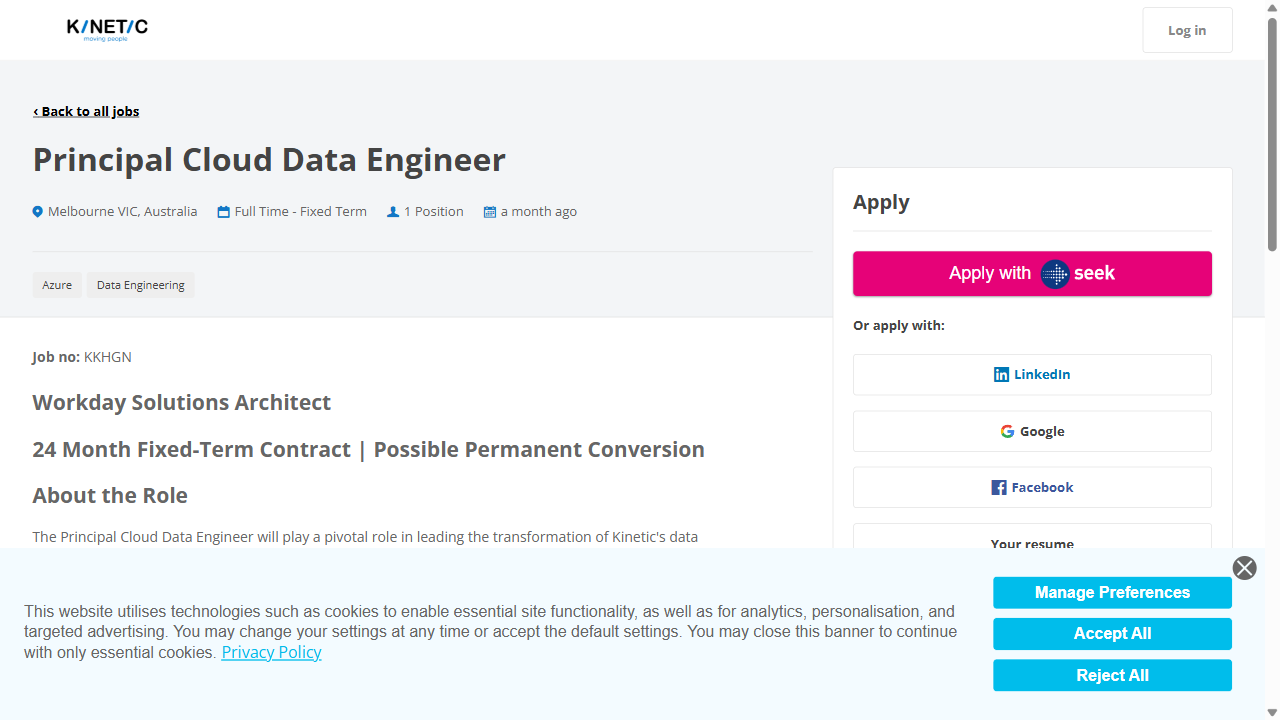
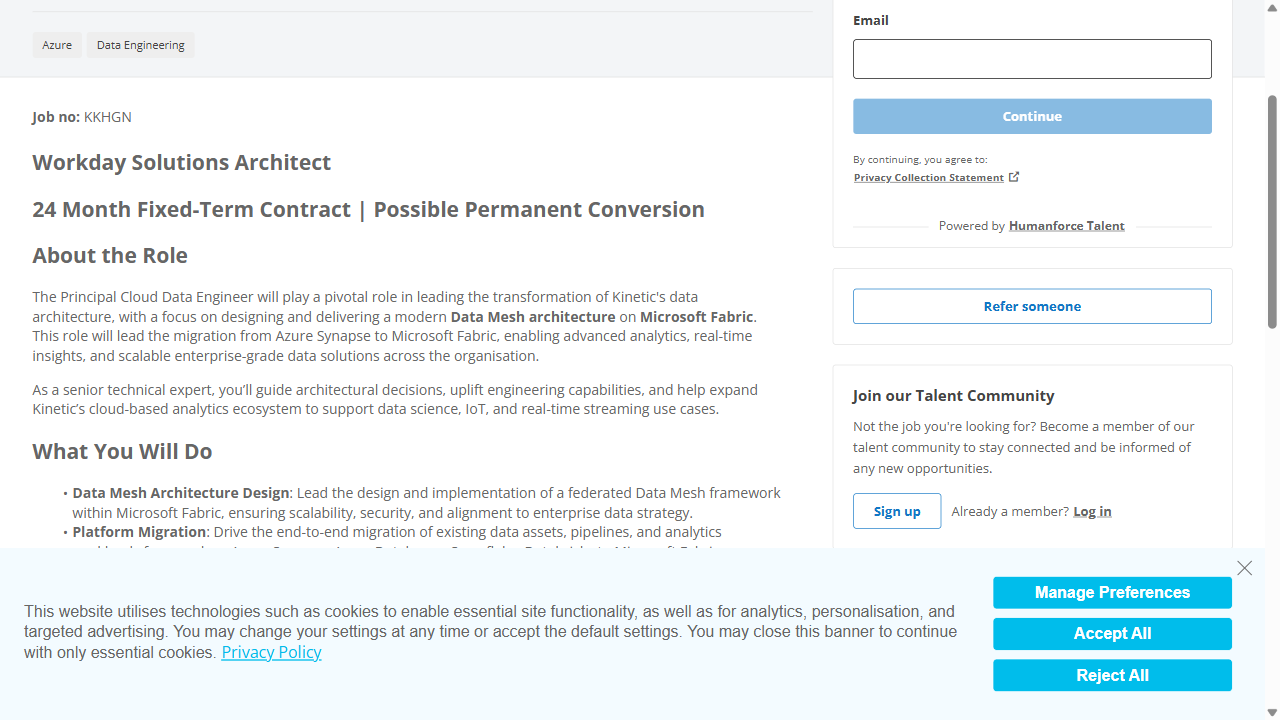
error resolving

diff --git a/backend/bots/handlers/livehire.py b/backend/bots/handlers/livehire.py
@@ -1,24 +1,38 @@
 from utils.claude_client import get_best_apply_button
 
 def apply_livehire(page, resume_path, user_info):
-    print("🧠 Using Claude to choose apply button...")
+    print("🧠 Trying to find a resume-related button first...")
 
     try:
         # Step 1: Wait for buttons to load
         page.wait_for_selector("button", timeout=10000)
         buttons = page.locator("button")
-        texts = [btn.text_content() for btn in buttons.element_handles()]
-        print(f"🧠 Found buttons: {texts}")
 
-        best_button = get_best_apply_button(texts)
-        print(f"🤖 Claude says to click: '{best_button}'")
+        # Step 2: Try to find a resume-related button
+        matched_button = None
+        for i in range(buttons.count()):
+            text = buttons.nth(i).text_content()
+            if text:
+                clean_text = text.strip().lower()
+                if any(keyword in clean_text for keyword in ["resume", "cv", "upload"]):
+                    matched_button = buttons.nth(i)
+                    print(f"✅ Found resume-related button: '{clean_text}'")
+                    break
 
-        # Step 2: Click that button
-        button = page.locator(f"button:has-text('{best_button}')")
-        button.wait_for(timeout=10000)
-        button.click()
+        # Step 3: Fallback to Claude if no match
+        if not matched_button:
+            print("🤖 No resume-related button found. Using Claude...")
+            texts = [btn.text_content() for btn in buttons.element_handles()]
+            print(f"🧠 Found buttons: {texts}")
+            best_button = get_best_apply_button(texts)
+            print(f"🤖 Claude says to click: '{best_button}'")
+            matched_button = page.locator(f"button:has-text('{best_button}')").first
 
-        # Step 3: Continue with form filling like before
+        # Step 4: Click the matched button
+        matched_button.wait_for(timeout=10000)
+        matched_button.click()
+
+        # Step 5: Fill the form
         page.wait_for_selector("input#firstName", timeout=15000)
         page.fill("input#firstName", user_info["first_name"])
         page.fill("input#lastName", user_info["last_name"])
@@ -28,7 +42,7 @@ def apply_livehire(page, resume_path, user_info):
         page.click("button[type='submit']")
 
         print("✅ Application submitted on LiveHire.")
-        page.screenshot(path="livehire_success.png")
+        page.screenshot(path="png/livehire_success.png")
 
     except Exception as e:
         print(f"❌ Failed to apply on LiveHire: {e}")
